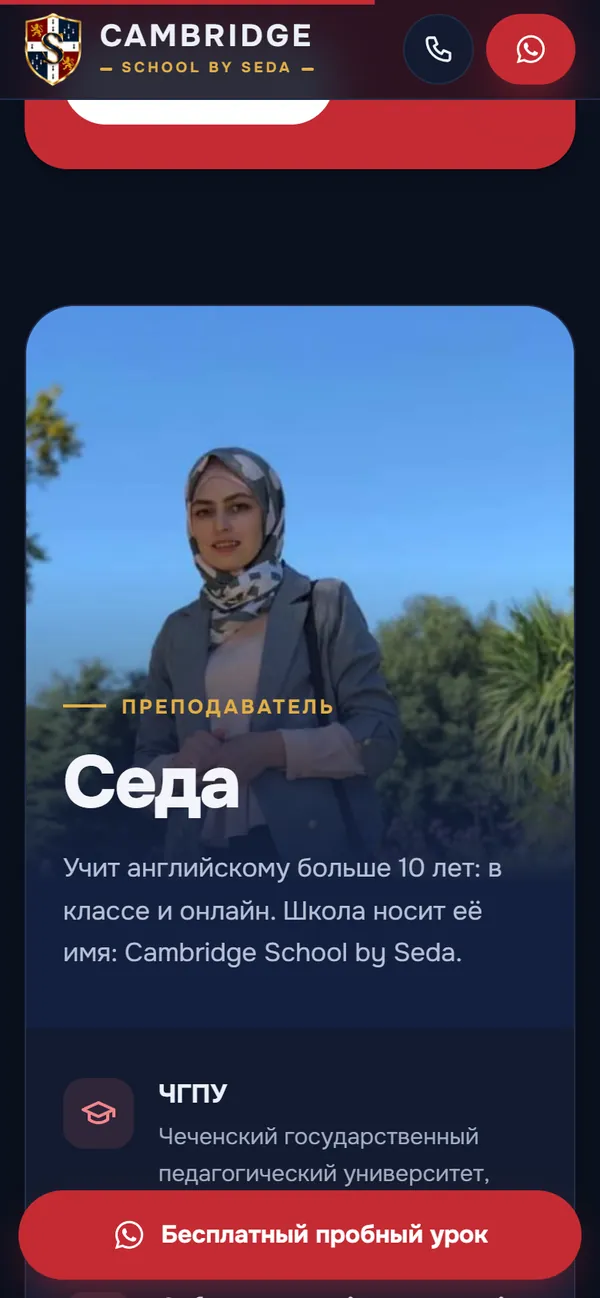
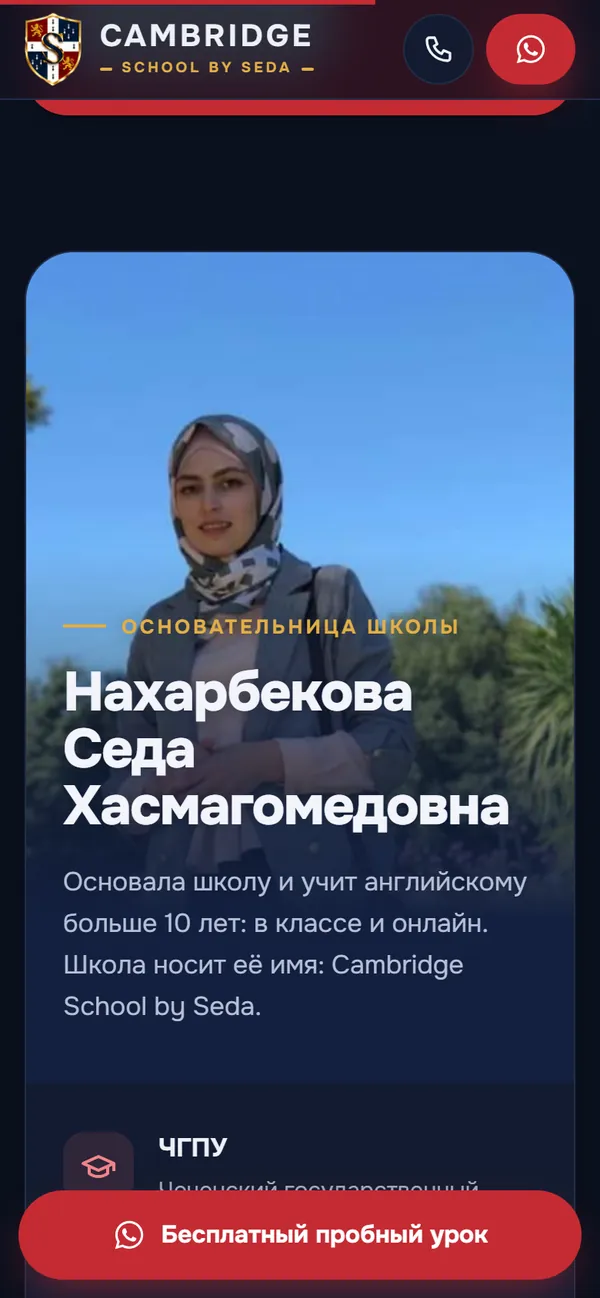
Cambridge: снимок с ФИО основательницы

diff --git a/index.html b/index.html
@@ -452,8 +452,8 @@ footer .wrap { display: flex; flex-wrap: wrap; justify-content: space-between; g
         <article class="project reveal" data-kind="site">
           <a class="media" href="https://xasi88.github.io/cambridge-grozny/" target="_blank" rel="noopener" tabindex="-1" aria-hidden="true">
             <div class="browser"><div class="bar"><i></i><i></i><i></i><span>Cambridge School</span></div>
-              <img src="img/cambridge-pc.webp?v=3" width="1200" height="750" alt="" loading="lazy"></div>
-            <div class="phone"><img src="img/cambridge-phone.webp?v=3" width="600" height="1298" alt="" loading="lazy"></div>
+              <img src="img/cambridge-pc.webp?v=4" width="1200" height="750" alt="" loading="lazy"></div>
+            <div class="phone"><img src="img/cambridge-phone.webp?v=4" width="600" height="1298" alt="" loading="lazy"></div>
           </a>
           <div>
             <span class="num"></span><span class="tag">Сайт школы</span>
